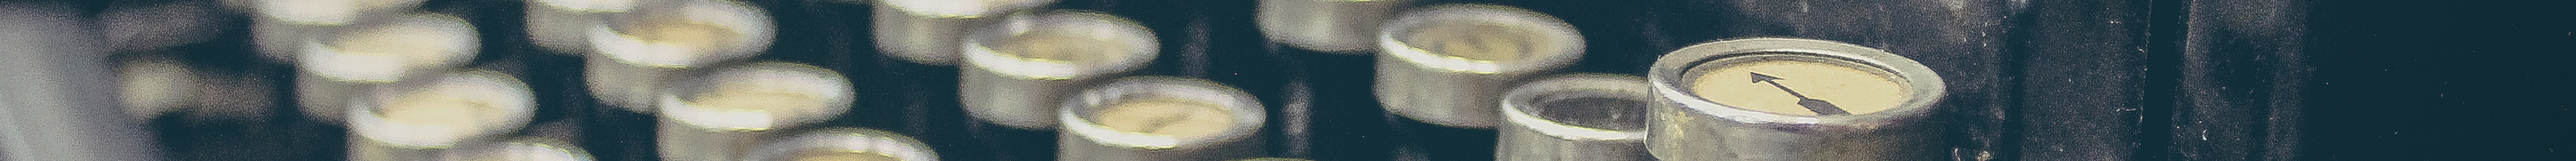
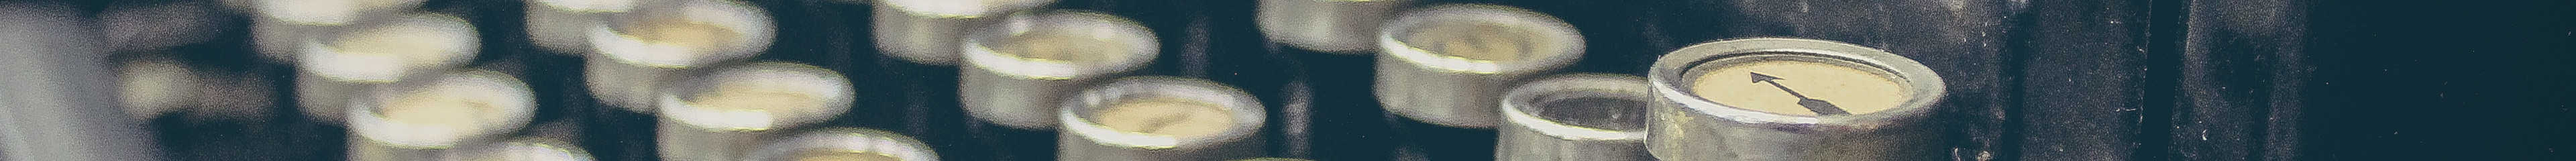
Shrinking the images, adding a viewport and generally following Google's page speed recommendations.

diff --git a/index.html b/index.html
@@ -9,7 +9,7 @@ title: Oblio360
         <a href="https://dota.oblio360.com">
             <div class="card">
                 <h2 class="title">Dota</h2>
-                <img class="image" src="/images/dota-background.jpg" alt="Dota Windrunner/Windranger"/>
+                <img class="image" src="/images/dota-compressed.jpg" alt="Dota Windrunner/Windranger"/>
             </div>
         </a>
     </div>
@@ -17,7 +17,7 @@ title: Oblio360
         <a href="https://hearthstone.oblio360.com">
             <div class="card">
                 <h2 class="title">Hearth&shy;stone</h2>
-                <img class="image" src="/images/hearthstone-background.jpg" alt="Hearthstone Hellfire" />
+                <img class="image" src="/images/hearthstone-compressed.jpg" alt="Hearthstone Hellfire" />
             </div>
         </a>
     </div>
@@ -25,7 +25,7 @@ title: Oblio360
         <a href="https://blog.oblio360.com">
             <div class="card">
                 <h2 class="title">Blog</h2>
-                <img class="image" src="/images/blog-background.jpg" alt="Blog Blue Skies"/>
+                <img class="image" src="/images/blog-compressed.jpg" alt="Blog Blue Skies"/>
             </div>
         </a>
     </div>

diff --git a/css/main.css b/css/main.css
@@ -9,17 +9,22 @@ html, body {
     height: 100%;
     width: 100%;
     max-width: 2048px;
+    font-size: 16px;
 }
 
 h1 {
-    font-size: 400%;
-    text-shadow: -1px 0 black, 0 1px black, 1px 0 black, 0 -1px black;
+    width: 100%;
+    font-size: 300%;
+    background-color: white;
+    opacity: 0.65;
+    color: black;
 }
 
 p {
     background-color: white;
     opacity: 0.65;
     color: black;
+    font-size: 125%;
 }
 
 h2 {
@@ -80,7 +85,7 @@ a {
     height: 240px;
     width: 100%;
     background: #eeeeee;
-    background: url("../images/header-background.jpg") no-repeat 0 0;
+    background: url("../images/header-compressed.jpg") no-repeat 0 0;
     background-size: cover;
 }
 
@@ -89,7 +94,7 @@ a {
     border-bottom: 20px solid white;
     text-align: center;
     vertical-align: middle;
-    padding-left: 10px;
+    padding-left: 20px;
 }
 
 #motto {

diff --git a/_includes/head.html b/_includes/head.html
@@ -2,19 +2,12 @@
 	<meta charset="utf-8"/>
 	<meta name="google-site-verification" content="-b5pIeozSxQpIjUztiA5w0GYCffNk4AW3gvjl-ONfl0" />
 	<meta name="robots" content="index, follow" />
+	<meta name=viewport content="width=device-width, initial-scale=1">
+
 	<link rel="shortcut icon" href="/favicon.ico" type="image/x-icon" />
-	
-	<!-- 
-	Using the picturefill.js polyfill to be able to serve responsive images.
-	http://scottjehl.github.io/picturefill/ -> see <picture> below. 
-	-->
-	<script>
-	// Picture element HTML5 shiv
-	// document.createElement( "picture" );
-	</script>
-	<script src="js/picturefill.min.js" async></script>
 
 	<link rel="stylesheet" type="text/css" href="css/main.css" />
 
 	<link rel="stylesheet" type="text/css" href="https://fonts.googleapis.com/css?family=Ubuntu">
+
 </head>

diff --git a/_includes/header.html b/_includes/header.html
@@ -1,6 +1,6 @@
 <div id="header-row">
     <div class="header">
-        <a href="http://oblio360.com">
+         <a href="http://oblio360.com">
             <h1>Oblio 360</h1>
         </a>
     </div>
